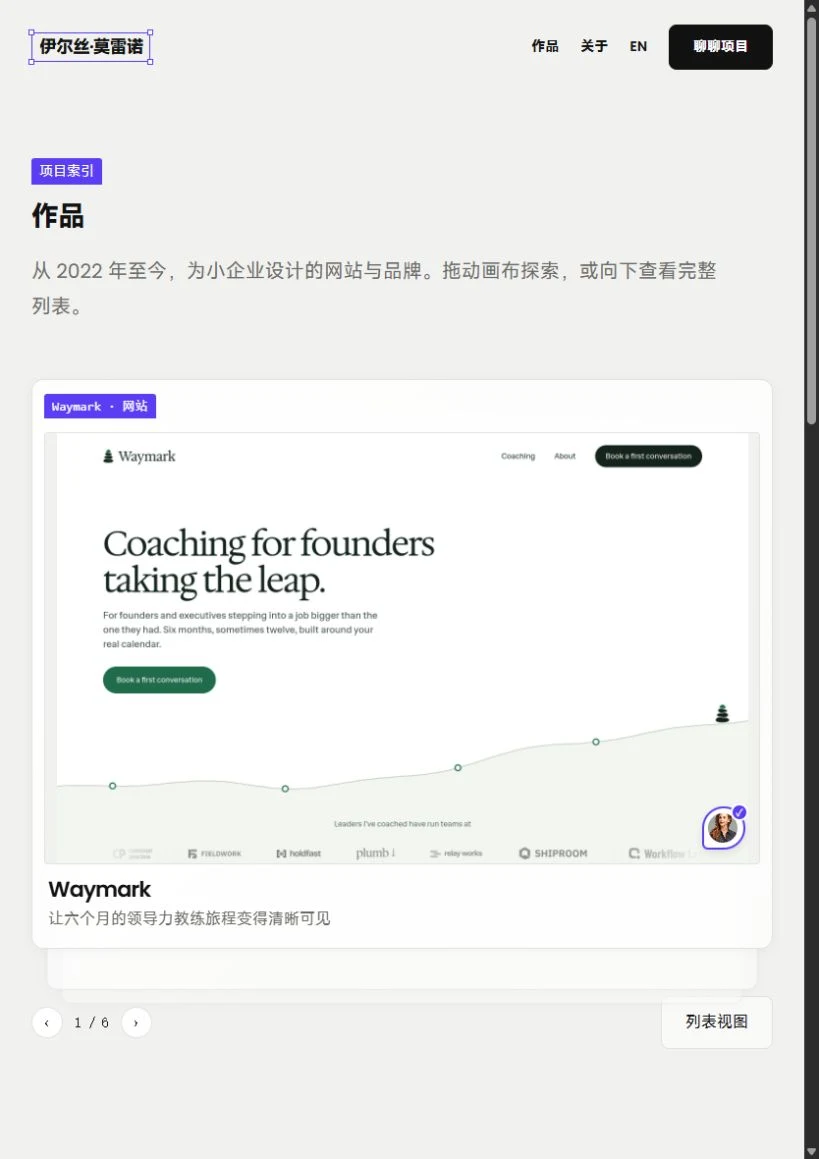
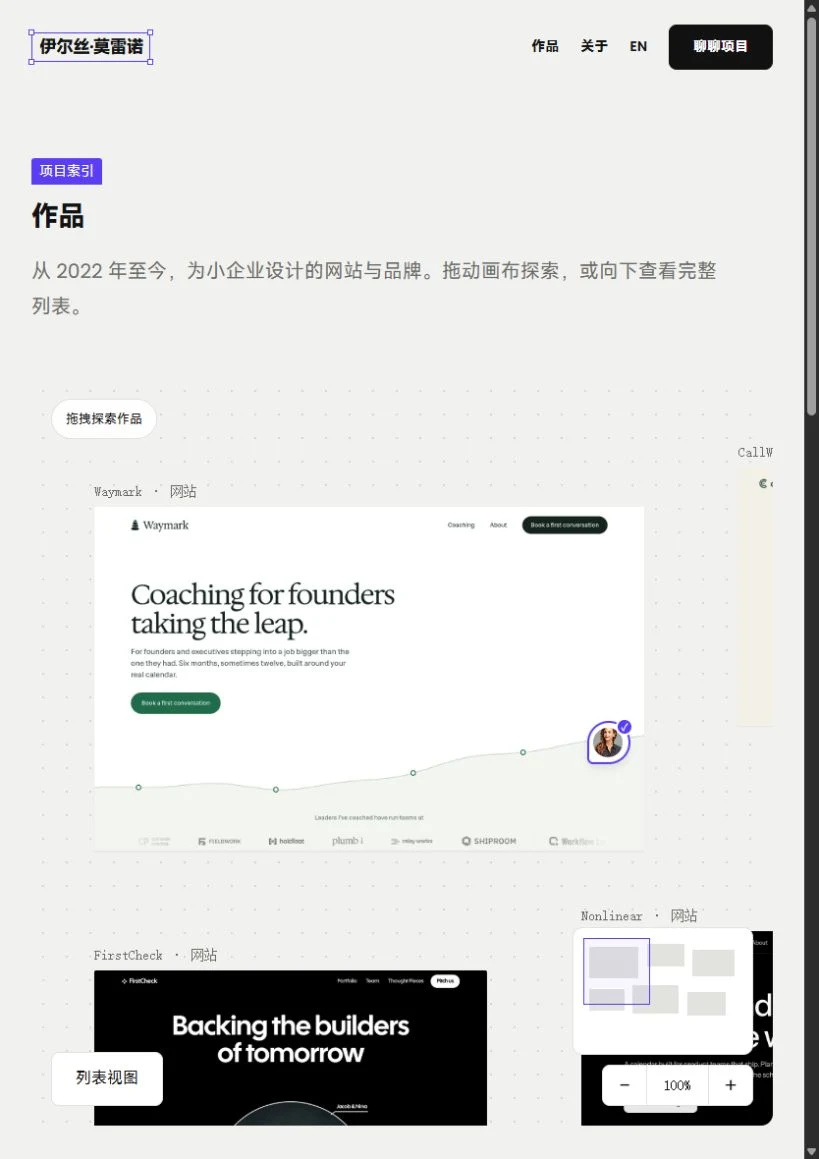
fix: preserve tablet canvas and refresh responsive captures

diff --git a/src/features/site-templates/catalog/ilse-moreno/components/WorkCanvas.tsx b/src/features/site-templates/catalog/ilse-moreno/components/WorkCanvas.tsx
@@ -30,7 +30,7 @@ export default function WorkCanvas({ locale, basePath }: {
     basePath: string;
 }) {
     const router = useRouter(), reduced = useReducedMotion(), stage = useRef<HTMLDivElement>(null), container = useRef<HTMLDivElement>(null), drag = useRef<Drag | null>(null), [width, setWidth] = useState(1248), [mode, setMode] = useState<'canvas' | 'list'>('canvas'), [zoom, setZoom] = useState(1), [point, setPoint] = useState<Point>({ x: 0, y: 0 }), [travel, setTravel] = useState<Travel>('intro'), [active, setActive] = useState(-1), [praise, setPraise] = useState(-1), [slide, setSlide] = useState(0), [swipe, setSwipe] = useState(0), [intro, setIntro] = useState(false), [dragged, setDragged] = useState(false);
-    const height = 760, phone = width < 760;
+    const height = 760, phone = width < 640;
     useEffect(() => { const el = container.current; if (!el)
         return; const observer = new ResizeObserver(([e]) => setWidth(e.contentRect.width)); observer.observe(el); return () => observer.disconnect(); }, []);
     useEffect(() => { const el = stage.current; if (!el || phone || mode !== 'canvas')
